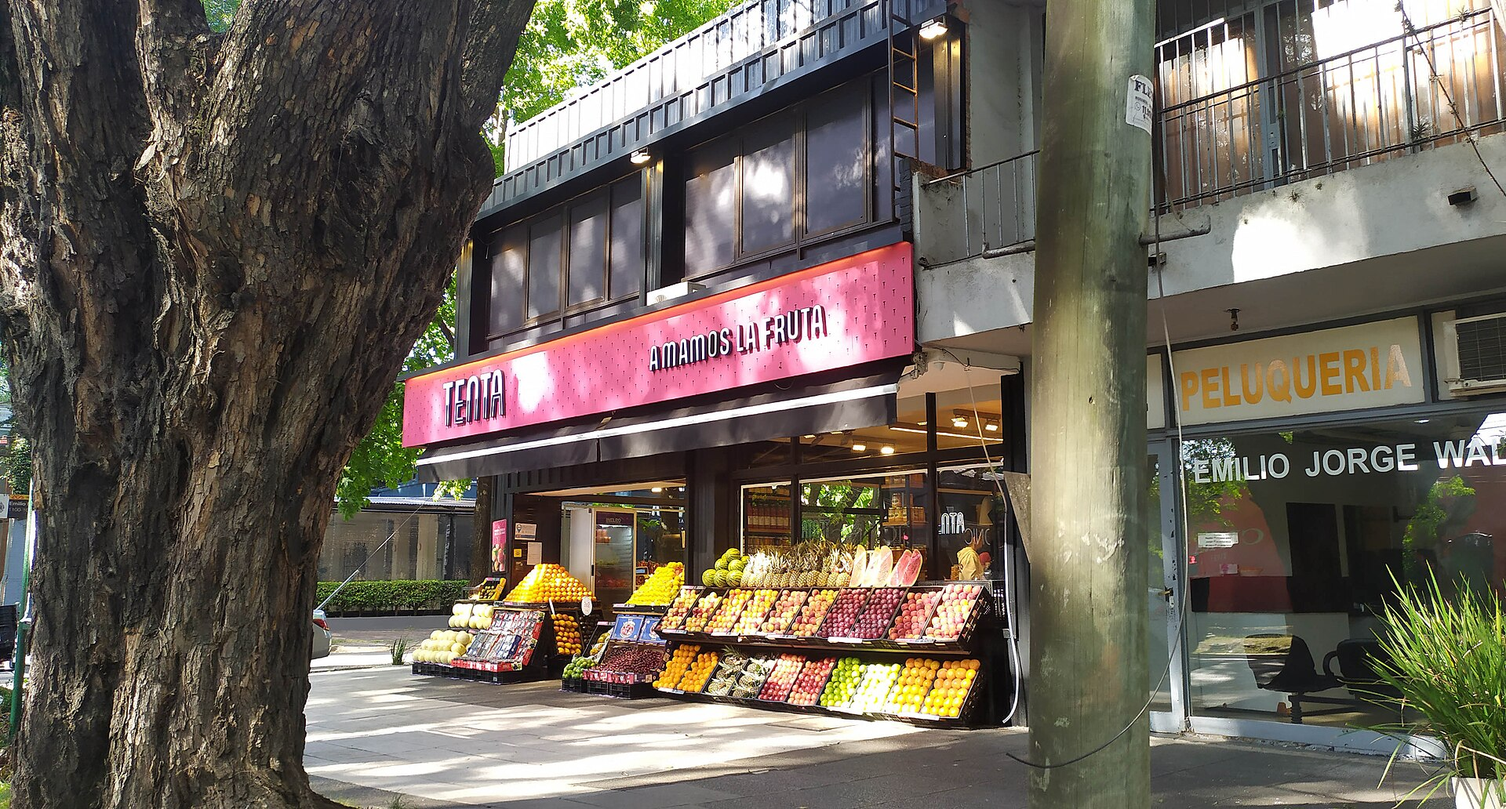
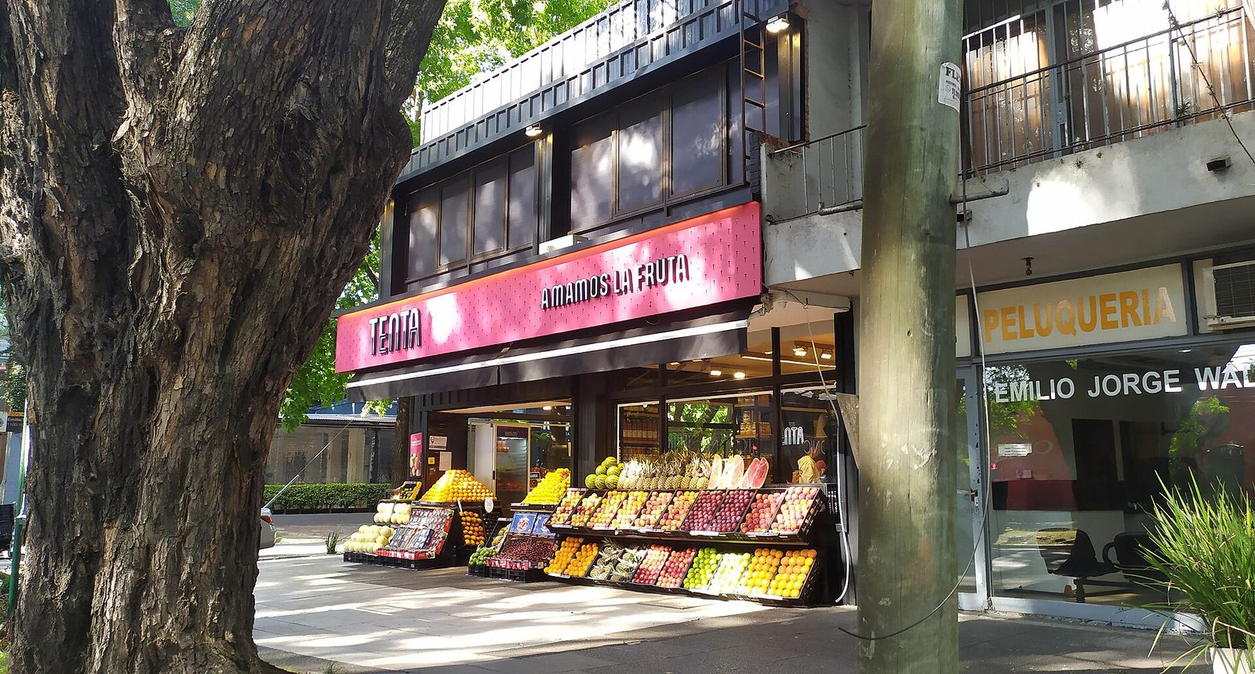
Fotos livianas y caché de notas (sin verificar, no publicar todavía)
- Achica las dos fotos pesadas (debate Lula-Flávio 6,9 MB -> 172 KB) con el mismo nombre.
- El panel comprime las fotos al subirlas: 1600 px, JPG.
- Las notas se guardan en la CDN de Vercel hasta el próximo despliegue.

Claude-Session: https://claude.ai/code/session_01SRfkVGTT8nMhuTuPkSKT4o

diff --git a/src/pages/api/upload-image.ts b/src/pages/api/upload-image.ts
@@ -4,6 +4,7 @@ import { isAdmin } from '../../lib/auth';
 import { getRuntimeEnv } from '../../lib/runtimeEnv';
 import { getRepo } from '../../lib/repo';
 import { getDataRepo, writeData } from '../../lib/datastore';
+import { optimizarSubida } from '../../lib/imagenes';
 
 const UPLOAD_DIR = 'public/uploads';
 const MAX_BYTES = 3_000_000;
@@ -47,7 +48,15 @@ export const POST = async ({ request, locals }: ApiContext) => {
 		if (!file.type.startsWith('image/')) return json({ ok: false, error: 'El archivo no es una imagen' }, 400);
 		if (file.size > MAX_BYTES) return json({ ok: false, error: 'La imagen pesa demasiado (máx. 3 MB)' }, 400);
 
-		const ext = (file.name.split('.').pop() || 'jpg').toLowerCase().replace(/[^a-z0-9]/g, '') || 'jpg';
+		// Fotos: se achican a 1600 px y se guardan en JPG (~200-400 KB). Así cargan rápido en el
+		// celular y WhatsApp no descarta la vista previa por peso. GIF y SVG quedan como vienen.
+		let bytes = new Uint8Array(await file.arrayBuffer());
+		let ext = (file.name.split('.').pop() || 'jpg').toLowerCase().replace(/[^a-z0-9]/g, '') || 'jpg';
+		const optimizada = await optimizarSubida(bytes, file.type);
+		if (optimizada) {
+			bytes = optimizada;
+			ext = 'jpg';
+		}
 		const base =
 			file.name
 				.replace(/\.[^.]+$/, '')
@@ -60,7 +69,6 @@ export const POST = async ({ request, locals }: ApiContext) => {
 		const fileName = `${Date.now()}-${base}.${ext}`;
 		const path = `${UPLOAD_DIR}/${fileName}`;
 
-		const bytes = new Uint8Array(await file.arrayBuffer());
 		// Con repo de datos privado: la foto va ahí y se sirve al instante por /media/,
 		// sin disparar un despliegue del sitio ni esperar a que se publique.
 		if (getDataRepo(env).separate) {

diff --git a/src/lib/imagenes.ts b/src/lib/imagenes.ts
@@ -79,3 +79,21 @@ export async function redimensionarAncho(entrada: Buffer, ancho: number): Promis
 		.jpeg({ quality: 78, mozjpeg: true, chromaSubsampling: '4:2:0' })
 		.toBuffer();
 }
+
+// Foto subida desde el panel: máximo 1600 px de ancho, JPG de buena calidad.
+// Devuelve null si no conviene tocarla (GIF animado, SVG) o si sharp no puede leerla:
+// en ese caso se guarda el archivo original, como antes.
+export async function optimizarSubida(entrada: Uint8Array, tipo: string): Promise<Uint8Array | null> {
+	if (!/^image\/(jpe?g|png|webp|avif|heic|heif)$/i.test(tipo)) return null;
+	try {
+		const salida = await sharp(Buffer.from(entrada), { failOn: 'none' })
+			.rotate()
+			.resize(1600, null, { withoutEnlargement: true })
+			.flatten({ background: '#ffffff' })
+			.jpeg({ quality: 82, mozjpeg: true, progressive: true })
+			.toBuffer();
+		return new Uint8Array(salida);
+	} catch {
+		return null;
+	}
+}
